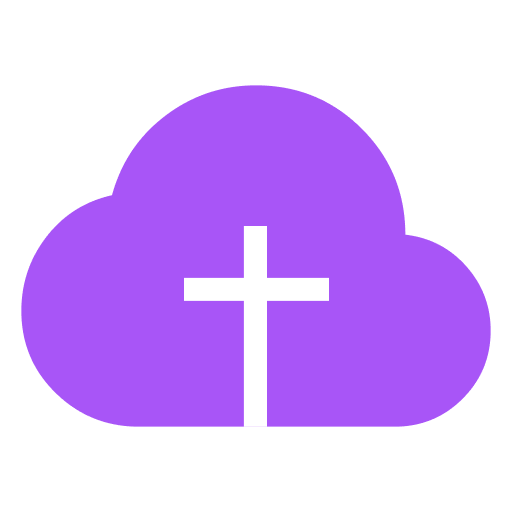
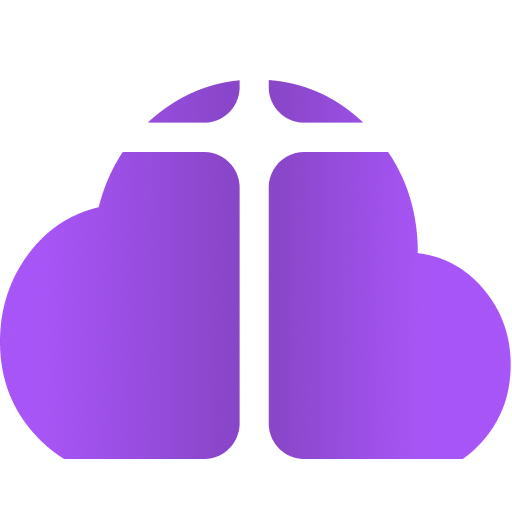
chore: updated branding

diff --git a/components/Logo.vue b/components/Logo.vue
@@ -1,19 +1,50 @@
 <template>
   <svg
-    width="512"
-    height="512"
-    viewBox="0 0 512 512"
+    width="55"
+    height="55"
+    viewBox="0 0 55 55"
     fill="none"
     xmlns="http://www.w3.org/2000/svg"
+    data-v-inspector="components/Logo.vue:2:3"
+    class="w-[38px]"
   >
     <path
-      d="M138.667 426.667C106.311 426.667 78.6704 415.467 55.7442 393.067C32.8179 370.667 21.3477 343.289 21.3335 310.933C21.3335 283.2 29.689 258.489 46.4002 236.8C63.1113 215.111 84.9779 201.245 112 195.2C120.889 162.489 138.667 136 165.333 115.733C192 95.4668 222.222 85.3335 256 85.3335C297.6 85.3335 332.893 99.8259 361.877 128.811C390.862 157.796 405.348 193.081 405.333 234.667C429.867 237.511 450.226 248.093 466.411 266.411C482.596 284.729 490.681 306.148 490.667 330.667C490.667 357.333 481.337 380.004 462.677 398.677C444.018 417.351 421.348 426.681 394.667 426.667H138.667Z"
-      fill="#A855F7"
-    />
-    <path
-      d="M255.429 226V289.366M255.429 426.5V289.366M255.429 289.366H184H329"
-      stroke="white"
-      stroke-width="23.0454"
-    />
+      fill-rule="evenodd"
+      clip-rule="evenodd"
+      d="M6.89259 49.3029C5.87416 48.6805 4.91726 47.9021 4.02188 46.9675C1.34229 44.1705 0.00166228 40.7519 0 36.7118C0 33.2488 0.976589 30.1632 2.92977 27.455C4.88295 24.7467 7.4387 23.0153 10.597 22.2605C11.1571 20.0586 12.0191 18.0824 13.1831 16.3321H21.9357C24.0368 16.3321 25.7402 18.0507 25.7402 20.1707V45.4642C25.7402 47.5842 24.0368 49.3029 21.9357 49.3029H6.89259ZM41.697 16.3321C43.8214 19.4575 44.8829 23.0764 44.8815 27.1886C47.749 27.5438 50.1285 28.865 52.0202 31.1524C53.9119 33.4397 54.8569 36.1142 54.8552 39.1758C54.8552 42.5056 53.7648 45.3363 51.5839 47.6681C50.9945 48.2982 50.3708 48.8431 49.713 49.3029H32.6698C30.5686 49.3029 28.8653 47.5842 28.8653 45.4642V20.1707C28.8653 18.0507 30.5686 16.3321 32.6698 16.3321H41.697ZM28.8653 8.59619C32.7504 8.89468 36.135 10.4221 39.0189 13.1784H32.6698C30.5686 13.1784 28.8653 11.4598 28.8653 9.33974V8.59619ZM25.7402 8.62128V9.33974C25.7402 11.4598 24.0368 13.1784 21.9357 13.1784H15.8641C16.1743 12.8892 16.4965 12.609 16.8306 12.3378C19.4964 10.1733 22.4663 8.93444 25.7402 8.62128Z"
+      fill="url(#paint0_linear_341_3)"
+      data-v-inspector="components/Logo.vue:9:5"
+    ></path>
+    <defs data-v-inspector="components/Logo.vue:15:5">
+      <linearGradient
+        id="paint0_linear_341_3"
+        x1="4.48816"
+        y1="26.5555"
+        x2="45.6297"
+        y2="26.9216"
+        gradientUnits="userSpaceOnUse"
+        data-v-inspector="components/Logo.vue:16:7"
+      >
+        <stop
+          stop-color="#A855F7"
+          data-v-inspector="components/Logo.vue:24:9"
+        ></stop>
+        <stop
+          offset="0.486687"
+          stop-color="#8946C9"
+          data-v-inspector="components/Logo.vue:25:9"
+        ></stop>
+        <stop
+          offset="0.617689"
+          stop-color="#8946C9"
+          data-v-inspector="components/Logo.vue:26:9"
+        ></stop>
+        <stop
+          offset="1"
+          stop-color="#A855F7"
+          data-v-inspector="components/Logo.vue:27:9"
+        ></stop>
+      </linearGradient>
+    </defs>
   </svg>
 </template>

diff --git a/nuxt.config.ts b/nuxt.config.ts
@@ -9,12 +9,12 @@ export default defineNuxtConfig({
         lang: "en",
       },
       viewport: "initial-scale=1",
-      title: "Cloud of Worshippers - Your church's powerpoint",
+      title: "Cloud of Worship - Your church's powerpoint",
       meta: [
         {
           name: "description",
           content:
-            "Simple and easy to use church presentation software that grows with your church needs. Cloud of Worshippers is your church's power point.",
+            "Simple and easy to use church presentation software that grows with your church needs. Cloud of Worship is your church's power point.",
         },
         { name: "format-detection", content: "telephone=no" },
         { hid: "og:type", property: "og:type", content: "website" },
@@ -42,7 +42,7 @@ export default defineNuxtConfig({
           hid: "twitter:description",
           name: "twitter:description",
           content:
-            "Simple and easy to use church presentation software that grows with your church needs. Cloud of Worshippers is your church's power point.",
+            "Simple and easy to use church presentation software that grows with your church needs. Cloud of Worship is your church's power point.",
         },
         {
           hid: "twitter:url",
@@ -139,9 +139,9 @@ export default defineNuxtConfig({
     },
 
     manifest: {
-      name: "Cloud of Worshippers",
+      name: "Cloud of Worship",
       short_name: "CoW",
-      description: "Cloud of Worshippers",
+      description: "Cloud of Worship",
       theme_color: "#a855f7",
       start_url: "/",
       display: "fullscreen",

diff --git a/layouts/app.vue b/layouts/app.vue
@@ -38,7 +38,7 @@
         >
           <NotFoundBanner
             icon="i-tabler-download"
-            sub="Install Cloud of Worshippers on your computer for easy access."
+            sub="Install Cloud of Worship on your computer for easy access."
             action="pwa-install"
             action-text="Install"
             secondary-action="cancel-pwa-install"
@@ -74,7 +74,7 @@
     <div class="wrapper flex flex-col gap-2">
       <div class="logo flex items-center justify-center mb-6 gap-2">
         <Logo class="w-[48px]" />
-        <h1 class="text-2xl font-semibold">Cloud of Worshippers</h1>
+        <h1 class="text-2xl font-semibold">Cloud of Worship</h1>
       </div>
       <div class="progress-wrapper text-center">
         <UProgress
@@ -113,7 +113,7 @@ import type { LibraryItem, Media, BackgroundVideo, Schedule } from "~/types"
 import { useOnline } from "@vueuse/core"
 
 useHead({
-  title: "Cloud of Worshippers",
+  title: "Cloud of Worship",
 })
 const props = defineProps({
   appVersion: String,

diff --git a/pages/signup/index.vue b/pages/signup/index.vue
@@ -4,7 +4,7 @@
       <Logo class="w-24 h-24" />
       <p v-show="step === 1" class="max-w-[200px] mx-auto come-up-1">
         Sign up to start using
-        <span class="font-semibold">Cloud of Worshippers</span>
+        <span class="font-semibold">Cloud of Worship</span>
       </p>
       <p v-show="step === 2" class="max-w-[200px] mx-auto come-up-1">
         <span class="font-semibold"
@@ -192,7 +192,7 @@
         :loading="loading"
         @click="signup"
       >
-        Start using Cloud of Worshippers
+        Start using Cloud of Worship
       </UButton>
     </form>
   </div>
@@ -242,7 +242,7 @@ onMounted(() => {
       title: "Still not convinced?",
       color: "red",
       description:
-        "Watch this video to see why we think Cloud of Worshippers is your church's literal power point.",
+        "Watch this video to see why we think Cloud of Worship is your church's literal power point.",
       timeout: 0,
       actions: [
         {

diff --git a/pages/signup/[church_id].vue b/pages/signup/[church_id].vue
@@ -6,7 +6,7 @@
         Join
         <span class="text-primary font-semibold">{{ church?.type }}</span> on
         <br />
-        <span class="font-semibold">Cloud of Worshippers</span>
+        <span class="font-semibold">Cloud of Worship</span>
       </p>
 
       <div class="people-info mt-4 text-center">
@@ -148,7 +148,7 @@ onMounted(() => {
       title: "Still not convinced?",
       color: "red",
       description:
-        "Watch this video to see why we think Cloud of Worshippers is your church's literal power point.",
+        "Watch this video to see why we think Cloud of Worship is your church's literal power point.",
       timeout: 0,
       actions: [
         {

diff --git a/components/Navbar.vue b/components/Navbar.vue
@@ -10,8 +10,8 @@
         size="xs"
       />
       <div class="logo flex items-center gap-2 w-[310px]">
-        <Logo class="w-[32px]" />
-        <h1 class="text-md font-semibold">Cloud of Worshippers</h1>
+        <Logo class="w-[24px]" />
+        <h1 class="text-md font-semibold">Cloud of Worship</h1>
         <UButton
           class="version-chip flex text-xs font-semibold bg-primary-200 p-2 py-1 rounded-full border border-transparent hover:bg-primary-300 hover:border-primary-900 transition-all text-primary-900"
           @click="useGlobalEmit('show-changelog')"

diff --git a/components/LiveProjectionOnly.vue b/components/LiveProjectionOnly.vue
@@ -112,8 +112,8 @@
           <UCard>
             <div class="flex items-center justify-between h-[60px] mb-4">
               <div class="logo flex items-center gap-2 w-[250px]">
-                <Logo class="w-[32px]" />
-                <h1 class="text-sm font-semibold">Cloud of Worshippers</h1>
+                <Logo class="w-[24px]" />
+                <h1 class="text-sm font-semibold">Cloud of Worship</h1>
               </div>
               <h3 class="text-lg font-semibold text-gray-900 dark:text-white">
                 Large Preview

diff --git a/components/ScheduleModal.vue b/components/ScheduleModal.vue
@@ -80,7 +80,7 @@
                 v-if="schedules.length === 0"
                 icon="i-bx-calendar"
                 sub="No schedules yet"
-                desc="Click the button above to create a new schedule and start using Cloud of Worshippers."
+                desc="Click the button above to create a new schedule and start using Cloud of Worship."
                 is-wider
               />
               <ScheduleCard

diff --git a/components/InviteUsersModal.vue b/components/InviteUsersModal.vue
@@ -90,7 +90,7 @@
             <div>
               <h2 class="text-md font-semibold">The more, the merrier.</h2>
               <p class="text-sm mt-1 mb-2">
-                Invite more people to try out Cloud of Worshippers.
+                Invite more people to try out Cloud of Worship.
               </p>
             </div>
             <!-- <div class="btn-row flex gap-2 justify-center">

diff --git a/pages/login.vue b/pages/login.vue
@@ -4,7 +4,7 @@
       <Logo class="w-24 h-24" />
       <p class="max-w-[200px] mx-auto">
         Log in to continue with
-        <span class="font-semibold">Cloud of Worshippers</span>
+        <span class="font-semibold">Cloud of Worship</span>
       </p>
     </div>
     <form class="flex flex-col gap-3 max-w-[325px] mx-auto" @submit="login()">

diff --git a/layouts/default.vue b/layouts/default.vue
@@ -6,6 +6,6 @@
 
 <script setup lang="ts">
 useHead({
-  title: "Cloud of Worshippers",
+  title: "Cloud of Worship",
 })
 </script>

diff --git a/layouts/auth.vue b/layouts/auth.vue
@@ -20,7 +20,7 @@
 
 <script setup>
 useHead({
-  title: "Cloud of Worshippers",
+  title: "Cloud of Worship",
 })
 </script>
 
